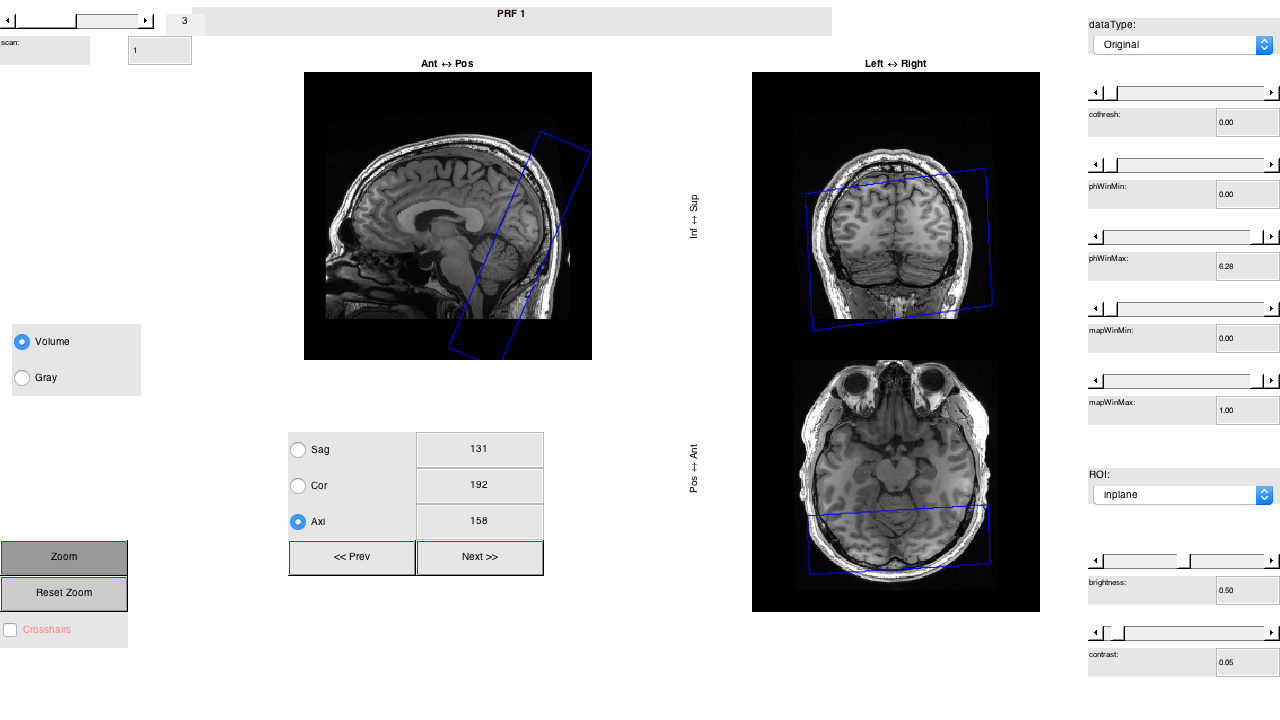
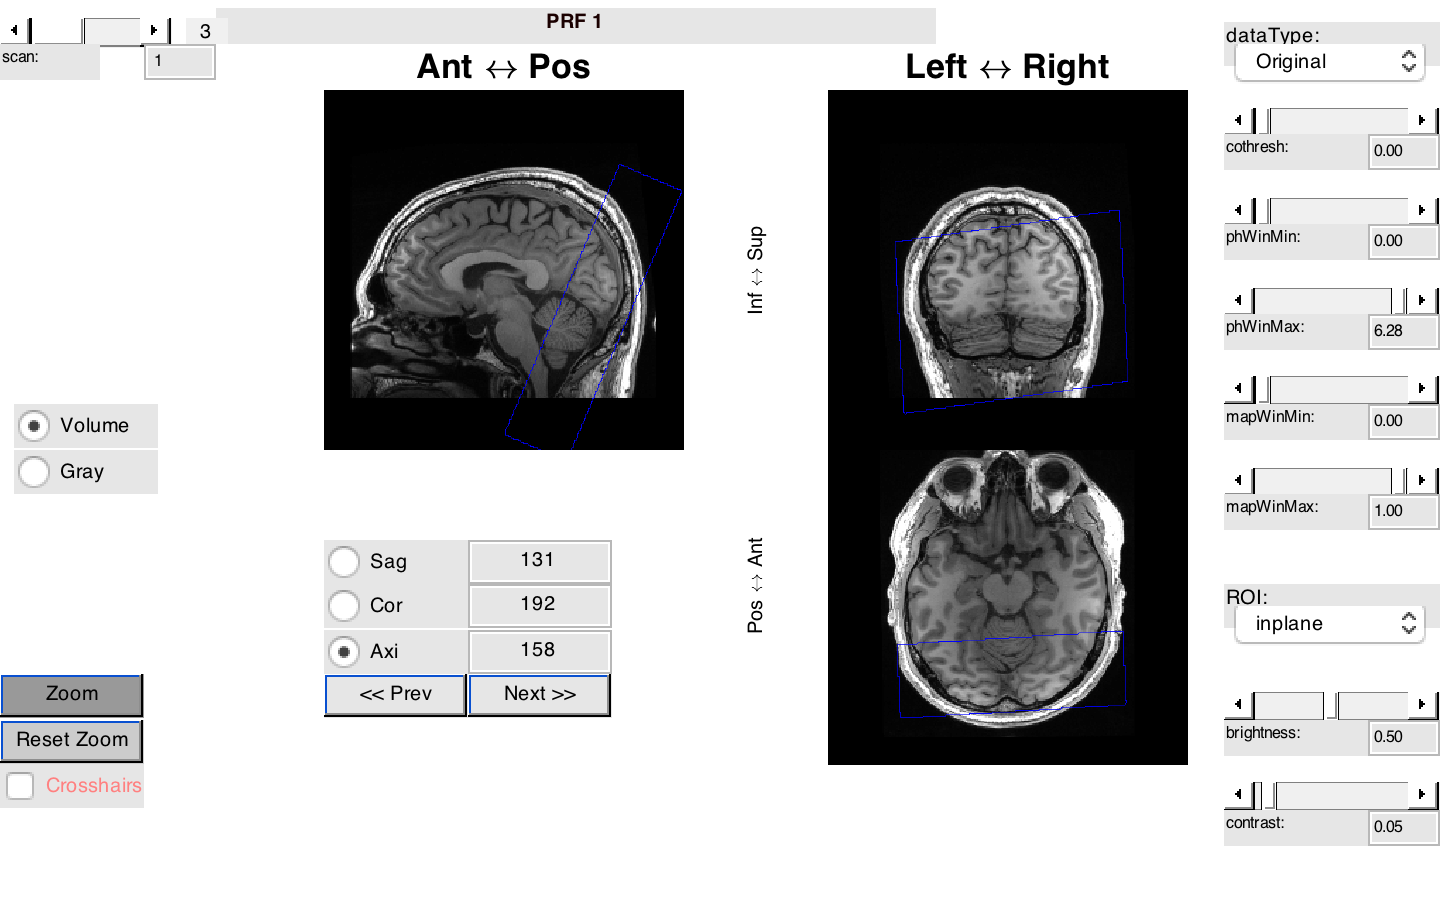
upload matlab published tutorial for s_alignInplaneToAnatomical.m

diff --git a/tutorials/bold/session/t_alignInplaneToVolume/t_alignInplaneToVolume.html b/tutorials/bold/session/t_alignInplaneToVolume/t_alignInplaneToVolume.html
@@ -6,7 +6,7 @@
    <!--
 This HTML was auto-generated from MATLAB code.
 To make changes, update the MATLAB code and republish this document.
-      --><title>t_alignInplaneToVolume</title><meta name="generator" content="MATLAB 8.5"><link rel="schema.DC" href="http://purl.org/dc/elements/1.1/"><meta name="DC.date" content="2016-07-21"><meta name="DC.source" content="t_alignInplaneToVolume.m"><style type="text/css">
+      --><title>t_alignInplaneToVolume</title><meta name="generator" content="MATLAB 8.6"><link rel="schema.DC" href="http://purl.org/dc/elements/1.1/"><meta name="DC.date" content="2016-07-21"><meta name="DC.source" content="t_alignInplaneToVolume.m"><style type="text/css">
 html,body,div,span,applet,object,iframe,h1,h2,h3,h4,h5,h6,p,blockquote,pre,a,abbr,acronym,address,big,cite,code,del,dfn,em,font,img,ins,kbd,q,s,samp,small,strike,strong,sub,sup,tt,var,b,u,i,center,dl,dt,dd,ol,ul,li,fieldset,form,label,legend,table,caption,tbody,tfoot,thead,tr,th,td{margin:0;padding:0;border:0;outline:0;font-size:100%;vertical-align:baseline;background:transparent}body{line-height:1}ol,ul{list-style:none}blockquote,q{quotes:none}blockquote:before,blockquote:after,q:before,q:after{content:'';content:none}:focus{outine:0}ins{text-decoration:none}del{text-decoration:line-through}table{border-collapse:collapse;border-spacing:0}
 
 html { min-height:100%; margin-bottom:1px; }
@@ -93,7 +93,8 @@ alignMtrx = <span class="keyword">...</span>
 
 mrSESSION = sessionSet(mrSESSION, <span class="string">'alignment'</span>, alignMtrx);
 saveSession();
-</pre><pre class="codeoutput">[niftiCheckQto] NIFTI header origin is at or outside the image volume.
+</pre><pre class="codeoutput">Initializing HIDDEN Inplane view
+[niftiCheckQto] NIFTI header origin is at or outside the image volume.
 [niftiCheckQto] Origin to the image center [80.000,104.000,12.000] pix.
 </pre><h2>Visualize<a name="4"></a></h2><pre class="codeinput"><span class="comment">% open a 3D volume view</span>
 vol = open3ViewWindow(<span class="string">'volume'</span>);
@@ -120,12 +121,12 @@ Attaching buttons
 Attaching popup menus
 Attaching sliders
 Done initializing Volume view
-Could not find /Users/jonathanwinawer/matlab/git/vistasoft/local/scratch/erniePRF/Volume/userPrefs.mat
+Could not find /Users/winawerlab/matlab/git/vistasoft/local/scratch/erniePRF/Volume/userPrefs.mat
 freq_dim not set correctly in NIFTI header.
 phase_dim not set correctly in NIFTI header.
 [mrLoad]: mr.voxelSize has length&lt;4: concatenating a "1" to it
 [mrLoad]: mr.dims has length&lt;4: concatenating a "1" to it
-</pre><img vspace="5" hspace="5" src="t_alignInplaneToVolume_01.png" alt=""> <h2>Clean up<a name="5"></a></h2><p>mrvCleanWorkspace cd(curdir)</p><p class="footer"><br><a href="http://www.mathworks.com/products/matlab/">Published with MATLAB&reg; R2015a</a><br></p></div><!--
+</pre><img vspace="5" hspace="5" src="t_alignInplaneToVolume_01.png" style="width:720px;height:450px;" alt=""> <h2>Clean up<a name="5"></a></h2><p>mrvCleanWorkspace cd(curdir)</p><p class="footer"><br><a href="http://www.mathworks.com/products/matlab/">Published with MATLAB&reg; R2015b</a><br></p></div><!--
 ##### SOURCE BEGIN #####
 %% t_alignInplaneToVolume
 %
